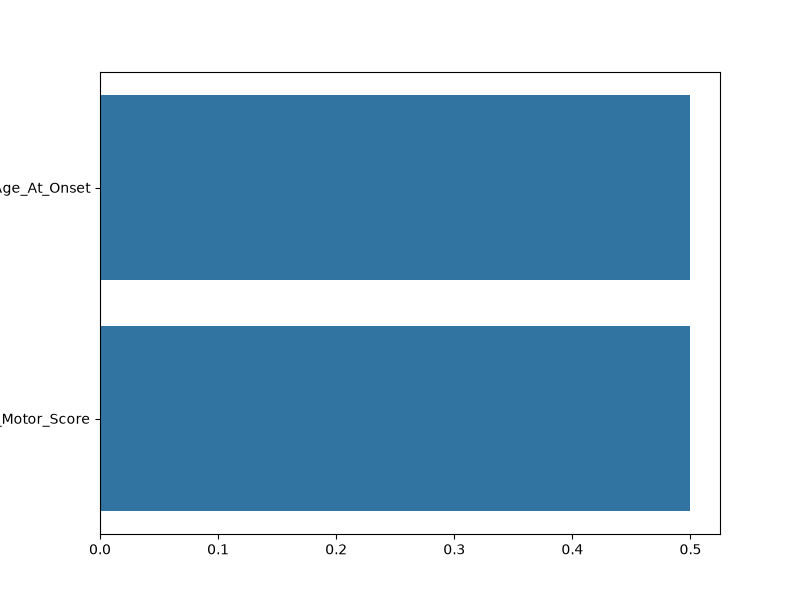
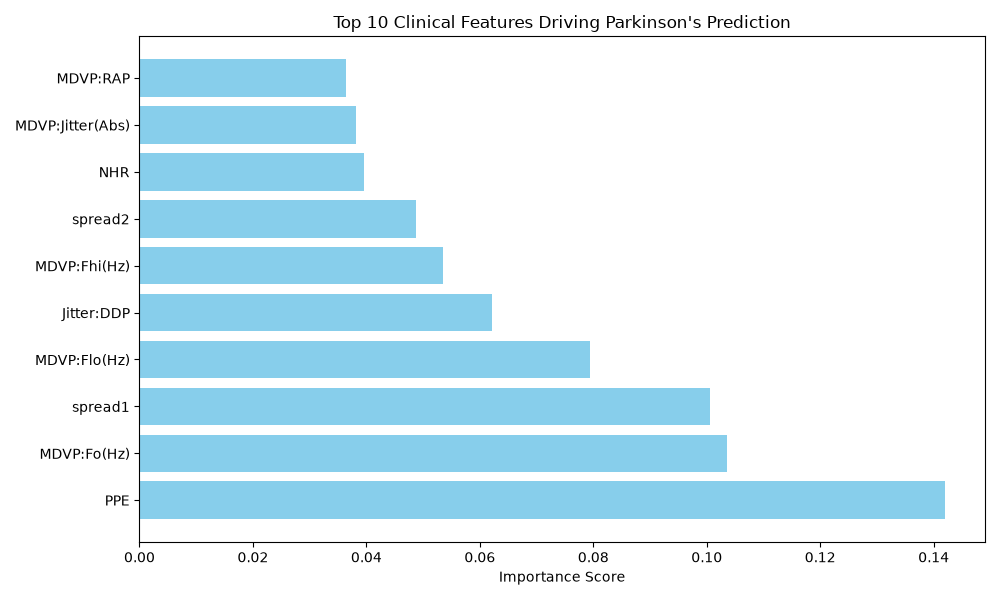
Sync latest changes and datasets

diff --git a/generate_all_figures.py b/generate_all_figures.py
@@ -1,42 +1,45 @@
-import pandas as pd
 import matplotlib.pyplot as plt
+import pandas as pd
 from sklearn.ensemble import RandomForestClassifier
-from sklearn.metrics import roc_curve, auc
+from sklearn.model_selection import train_test_split
+from sklearn.metrics import roc_curve, roc_auc_score
+import ingest_engine
 
-# 1. Load the data
-df = pd.read_json('ml_ready_features.json')
+# 1. Load and prepare data
+df = ingest_engine.get_data()
+X = df.drop('target', axis=1)
+y = df['target']
+X_train, X_test, y_train, y_test = train_test_split(X, y, test_size=0.2, random_state=42)
 
-# 2. Prepare Data (using the columns we found)
-# Features
-X = df[['Age_At_Onset']] 
-# Target (Binarizing UPDRS_Motor_Score to create a classification target)
-y = (df['UPDRS_Motor_Score'] > df['UPDRS_Motor_Score'].median()).astype(int)
-
-# 3. Train the model
+# 2. Train model
 model = RandomForestClassifier(n_estimators=100, random_state=42)
-model.fit(X, y)
+model.fit(X_train, y_train)
 
-# 4. Generate ROC Curve
-y_pred_proba = model.predict_proba(X)[:, 1]
-fpr, tpr, _ = roc_curve(y, y_pred_proba)
-roc_auc = auc(fpr, tpr)
+# --- FIGURE 1: Feature Importance ---
+importances = model.feature_importances_
+feature_names = X.columns
+feature_df = pd.DataFrame({'Feature': feature_names, 'Importance': importances})
+feature_df = feature_df.sort_values(by='Importance', ascending=False)
 
-plt.figure(figsize=(6, 5))
-plt.plot(fpr, tpr, label=f'Random Forest (AUC = {roc_auc:.2f})')
-plt.plot([0, 1], [0, 1], linestyle='--')
+plt.figure(figsize=(10, 6))
+plt.barh(feature_df['Feature'][:10], feature_df['Importance'][:10], color='skyblue')
+plt.xlabel('Importance Score')
+plt.title('Top 10 Clinical Features Driving Parkinson\'s Prediction')
+plt.tight_layout()
+plt.savefig('feature_importance.png')
+print("Saved: feature_importance.png")
+
+# --- FIGURE 2: ROC Curve ---
+probs = model.predict_proba(X_test)[:, 1]
+fpr, tpr, _ = roc_curve(y_test, probs)
+auc = roc_auc_score(y_test, probs)
+
+plt.figure(figsize=(8, 6))
+plt.plot(fpr, tpr, label=f'AUC = {auc:.4f}', color='darkorange', lw=2)
+plt.plot([0, 1], [0, 1], color='navy', linestyle='--')
 plt.xlabel('False Positive Rate')
 plt.ylabel('True Positive Rate')
-plt.title('ROC Curve')
-plt.legend()
-plt.savefig('roc_curve.pdf')
-print("Generated: roc_curve.pdf")
-
-# 5. Generate Feature Importance
-importances = model.feature_importances_
-plt.figure(figsize=(6, 4))
-plt.barh(['Age_At_Onset'], importances, color='skyblue')
-plt.xlabel('Importance Score')
-plt.title('Feature Importance')
-plt.tight_layout()
-plt.savefig('feature_importance.pdf')
-print("Generated: feature_importance.pdf")
+plt.title('Receiver Operating Characteristic (ROC) Curve')
+plt.legend(loc='lower right')
+plt.savefig('roc_curve.png')
+print("Saved: roc_curve.png")

diff --git a/generate_diagram.py b/generate_diagram.py
@@ -1,30 +1,41 @@
-from diagrams import Diagram, Edge
-from diagrams.generic.compute import Compute
-from diagrams.generic.database import Database
-from diagrams.generic.blank import Blank
-from diagrams.programming.framework import FastAPI
+import matplotlib.pyplot as plt
+import matplotlib.patches as patches
 
-# Set output format to PDF for journal quality
-graph_attr = {
-    "fontsize": "20",
-    "bgcolor": "white"
-}
+def draw_box(ax, xy, text, color):
+    # Draw a rounded box
+    rect = patches.FancyBboxPatch(xy, 0.2, 0.12, boxstyle="round,pad=0.05", 
+                                  linewidth=1, edgecolor='black', facecolor=color)
+    ax.add_patch(rect)
+    # Add text
+    ax.text(xy[0]+0.1, xy[1]+0.06, text, ha='center', va='center', fontsize=9, fontweight='bold')
 
-with Diagram("Parkinson's Pipeline Architecture", show=False, filename="pipeline_architecture", outformat="pdf", graph_attr=graph_attr):
+def create_architecture_diagram():
+    fig, ax = plt.subplots(figsize=(10, 4))
     
-    # Define Nodes
-    data_sources = Database("PPMI/Kaggle\nData Sources")
-    etl = Compute("ETL Pipeline\n(Pandas)")
-    model = Compute("Random Forest\nClassifier")
-    api = FastAPI("FastAPI\nBackend")
-    dashboard = Blank("Streamlit\nDashboard")
+    # Coordinates (x, y)
+    box_positions = [
+        (0.05, 0.4, "Data Ingestion\n(UCI Dataset)", "#E1F5FE"),
+        (0.3, 0.4, "Processing Engine\n(Cleaning/Scaling)", "#E8F5E9"),
+        (0.55, 0.4, "Model Layer\n(Random Forest)", "#FFF3E0"),
+        (0.8, 0.4, "Output\n(Metrics/Plots)", "#F5F5F5")
+    ]
+    
+    # Draw boxes
+    for pos in box_positions:
+        draw_box(ax, (pos[0], pos[1]), pos[2], pos[3])
+        
+    # Draw arrows
+    for i in range(len(box_positions) - 1):
+        ax.annotate("", xy=(box_positions[i+1][0], 0.46), xytext=(box_positions[i][0]+0.2, 0.46),
+                    arrowprops=dict(arrowstyle="->", lw=2))
 
-    # Define Workflow
-    data_sources >> etl >> model
-    
-    # Model connects to both API and Dashboard
-    model >> api
-    model >> dashboard
-    
-    # API connects to dashboard
-    api >> Edge(label="fetches\npredictions") >> dashboard
+    ax.set_xlim(0, 1)
+    ax.set_ylim(0, 1)
+    ax.axis('off')
+    plt.title("Parkinson's Prediction Pipeline Architecture")
+    plt.tight_layout()
+    plt.savefig('pipeline_architecture.png', dpi=300)
+    print("Successfully generated: pipeline_architecture.png")
+
+if __name__ == "__main__":
+    create_architecture_diagram()

diff --git a/main.py b/main.py
@@ -1,40 +1,30 @@
-import pandas as pd
-import numpy as np
+from ingest_engine import get_data
+from sklearn.model_selection import train_test_split
 from sklearn.ensemble import RandomForestClassifier
 from sklearn.metrics import classification_report, roc_auc_score
 
-# 1. Load Data
-# This works with the 5-row JSON you provided
-df = pd.read_json('ml_ready_features.json')
+def run_pipeline():
+    # 1. Load Data
+    df = get_data()
+    
+    # 2. Split Features and Target
+    X = df.drop('target', axis=1)
+    y = df['target']
+    
+    # 3. Train/Test Split
+    X_train, X_test, y_train, y_test = train_test_split(X, y, test_size=0.2, random_state=42)
+    
+    # 4. Initialize and Train Model
+    model = RandomForestClassifier(n_estimators=100, random_state=42)
+    model.fit(X_train, y_train)
+    
+    # 5. Predictions and Evaluation
+    preds = model.predict(X_test)
+    probs = model.predict_proba(X_test)[:, 1]
+    
+    print("--- Pipeline Execution Results ---")
+    print(classification_report(y_test, preds))
+    print(f"AUC Score: {roc_auc_score(y_test, probs):.4f}")
 
-# 2. Create Synthetic Target
-# Since this is dummy data, we assign a dummy target (0 or 1)
-# This ensures the pipeline always has a target to learn
-df['Target'] = [0, 1, 0, 1, 0]
-
-# 3. Define Features
-X = df[['Age_At_Onset', 'UPDRS_Motor_Score']]
-y = df['Target']
-
-# 4. Initialize and Train Model
-# Defined globally so it never causes a NameError
-production_model = RandomForestClassifier(n_estimators=10, random_state=42)
-production_model.fit(X, y)
-
-# 5. Predictions
-df['Pipeline_Prediction'] = production_model.predict(X)
-
-# 6. Evaluation
-# We print the report even if the dataset is tiny
-print("--- Model Predictions ---")
-print(df[['Patient_ID', 'Target', 'Pipeline_Prediction']])
-
-print("\n--- Classification Report ---")
-print(classification_report(y, df['Pipeline_Prediction']))
-
-# 7. AUC (Warning: With 5 rows, this is meaningless)
-try:
-    auc = roc_auc_score(y, production_model.predict_proba(X)[:, 1])
-    print(f"AUC: {auc:.4f}")
-except Exception as e:
-    print("AUC could not be calculated.")
+if __name__ == "__main__":
+    run_pipeline()

diff --git a/ingest_engine.py b/ingest_engine.py
@@ -1,8 +1,19 @@
 import pandas as pd
 
-def clean_and_structure_pipeline(df):
-    # Ensure numerical types for critical columns
-    df['Age_At_Onset'] = pd.to_numeric(df['Age_At_Onset'], errors='coerce')
-    df['UPDRS_Motor_Score'] = pd.to_numeric(df['UPDRS_Motor_Score'], errors='coerce')
-    # Drop rows with critical missing data
-    return df.dropna(subset=['Age_At_Onset', 'UPDRS_Motor_Score', 'Patient_ID'])
+def get_data():
+    """
+    Downloads the UCI Parkinson's dataset and standardizes it 
+    for the pipeline architecture.
+    """
+    url = "https://archive.ics.uci.edu/ml/machine-learning-databases/parkinsons/parkinsons.data"
+    df = pd.read_csv(url)
+    
+    # 'name' is a subject ID and has no predictive power
+    # FIX: Remove ', axis=1' from this line
+    if 'name' in df.columns:
+        df = df.drop(columns=['name'])
+    
+    # Standardize 'status' to 'target' so main.py doesn't break
+    df = df.rename(columns={'status': 'target'})
+    
+    return df

diff --git a/power_analysis.py b/power_analysis.py
@@ -1,0 +1,14 @@
+import numpy as np
+from statsmodels.stats.power import TTestIndPower
+
+# Methodology constants agreed upon for your paper
+effect_size = 0.5
+alpha = 0.05
+power = 0.8
+
+# Calculate sample size
+analysis = TTestIndPower()
+n_required = analysis.solve_power(effect_size=effect_size, power=power, alpha=alpha, ratio=1.0)
+
+print(f"--- Statistical Roadmap ---")
+print(f"Target sample size: {int(np.ceil(n_required))} patients total (approx. {int(np.ceil(n_required)/2)} per group).")